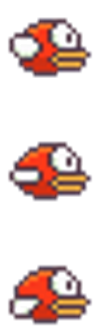
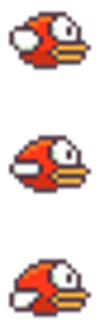
Player Bird Animation Implemented

diff --git a/BirdJYSP/Bird.cs b/BirdJYSP/Bird.cs
@@ -30,6 +30,14 @@ namespace BirdJYSP
         private Rectangle bulletSrcRect;
 
         private KeyboardState oldState;
+        //added for animation of bird
+        private Vector2 dimesion;
+        private List<Rectangle> frames;
+        private int frameIndex = 0;
+        private int delay;
+        private int delayCounter;
+        private const int ROW = 3;
+        
 
         public Bird(Game game,
            SpriteBatch spriteBatch,
@@ -50,13 +58,33 @@ namespace BirdJYSP
             bulletPos = new Vector2(3000, 0);
             bulletSpeed = new Vector2(0,0);
             this.bulletTex = bulletTex;
+            //createFrames called to instantiate the list of frames in one animation cycle
+            createFrames();
+        }
+        //used to create each frame of the sprite animation
+        private void createFrames()
+        {
+            frames = new List<Rectangle>();
+            int x = 0;
+            int y = 0;
+            for (int i = 0; i < ROW; i++)
+            {
+                
+                Rectangle r = new Rectangle(x, y, 100, 80);
+                frames.Add(r);
+                y += 124;
+            }
         }
 
         public override void Draw(GameTime gameTime)
         {
             //Draw bird
+            //spriteBatch.Begin();
+            //spriteBatch.Draw(birdTex, birdPos, birdSrcRect, Color.White, rotation, origin , birdScale, SpriteEffects.None, 0.1f);
+            //spriteBatch.End();
+
             spriteBatch.Begin();
-            spriteBatch.Draw(birdTex, birdPos, birdSrcRect, Color.White, rotation, origin , birdScale, SpriteEffects.None, 0.1f);
+            spriteBatch.Draw(birdTex, birdPos, frames[frameIndex], Color.White);
             spriteBatch.End();
 
             //Draw bullet
@@ -68,6 +96,17 @@ namespace BirdJYSP
 
         public override void Update(GameTime gameTime)
         {
+            delayCounter++;
+            if (delayCounter> delay)
+            {
+                frameIndex++;
+                if (frameIndex > ROW - 1)
+                {
+                    frameIndex = 0;
+                }
+                delayCounter = 0;
+            }
+
             //Gravity down
             birdPos += birdGravity;
 

diff --git a/BirdJYSP/ActionScene.cs b/BirdJYSP/ActionScene.cs
@@ -20,8 +20,10 @@ namespace BirdJYSP
             this.spriteBatch = g._spriteBatch;
 
             Texture2D birdTex = g.Content.Load<Texture2D>("images/test");
+            Texture2D playerBirdTex = g.Content.Load<Texture2D>("images/playerBird");
             Texture2D bulletTex = g.Content.Load<Texture2D>("images/bullet");
-            Bird bird = new Bird(game, spriteBatch, birdTex, bulletTex);
+
+            Bird bird = new Bird(game, spriteBatch, playerBirdTex, bulletTex);
             this.Components.Add(bird);
 
             Random rnd = new Random();
